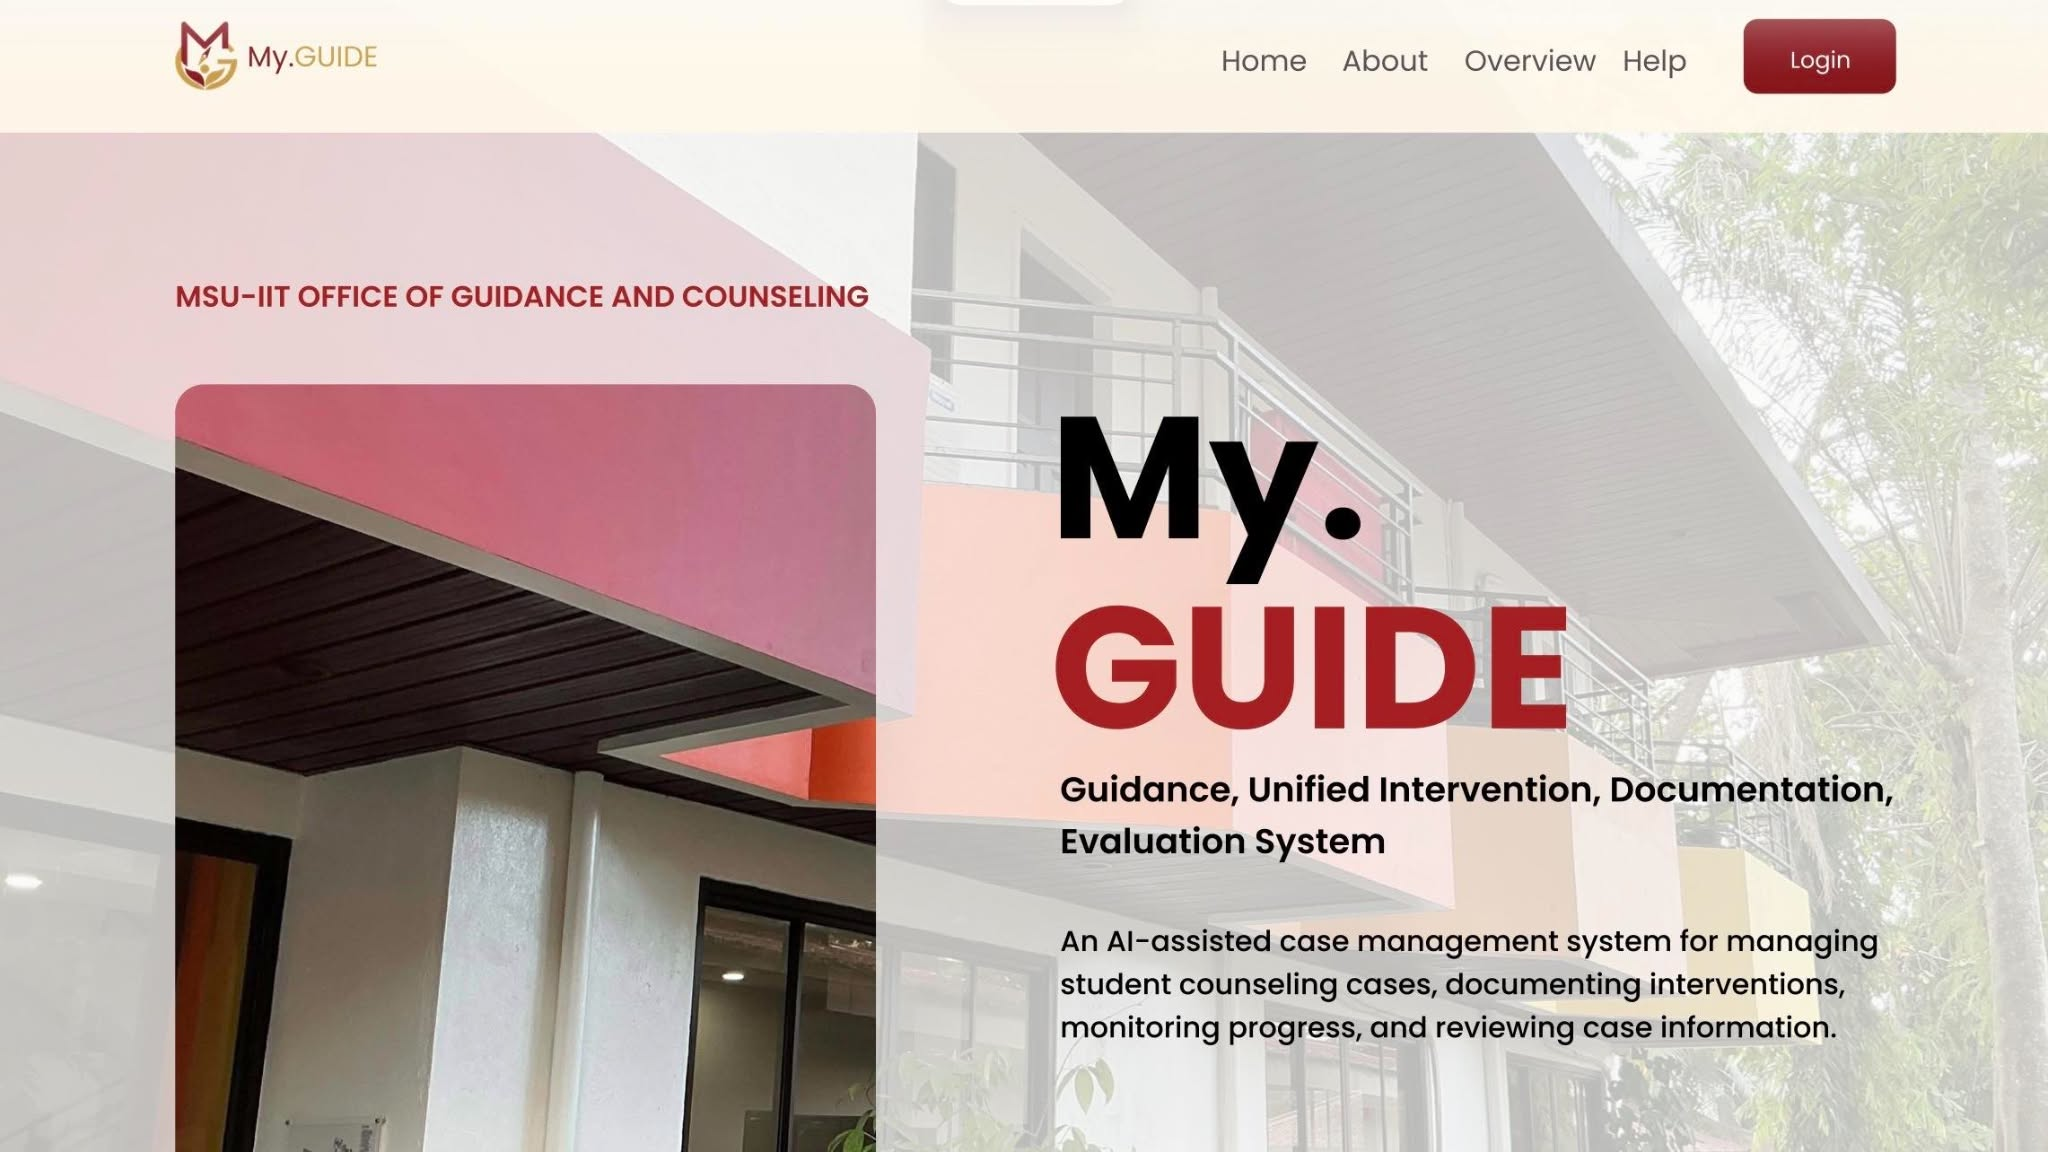
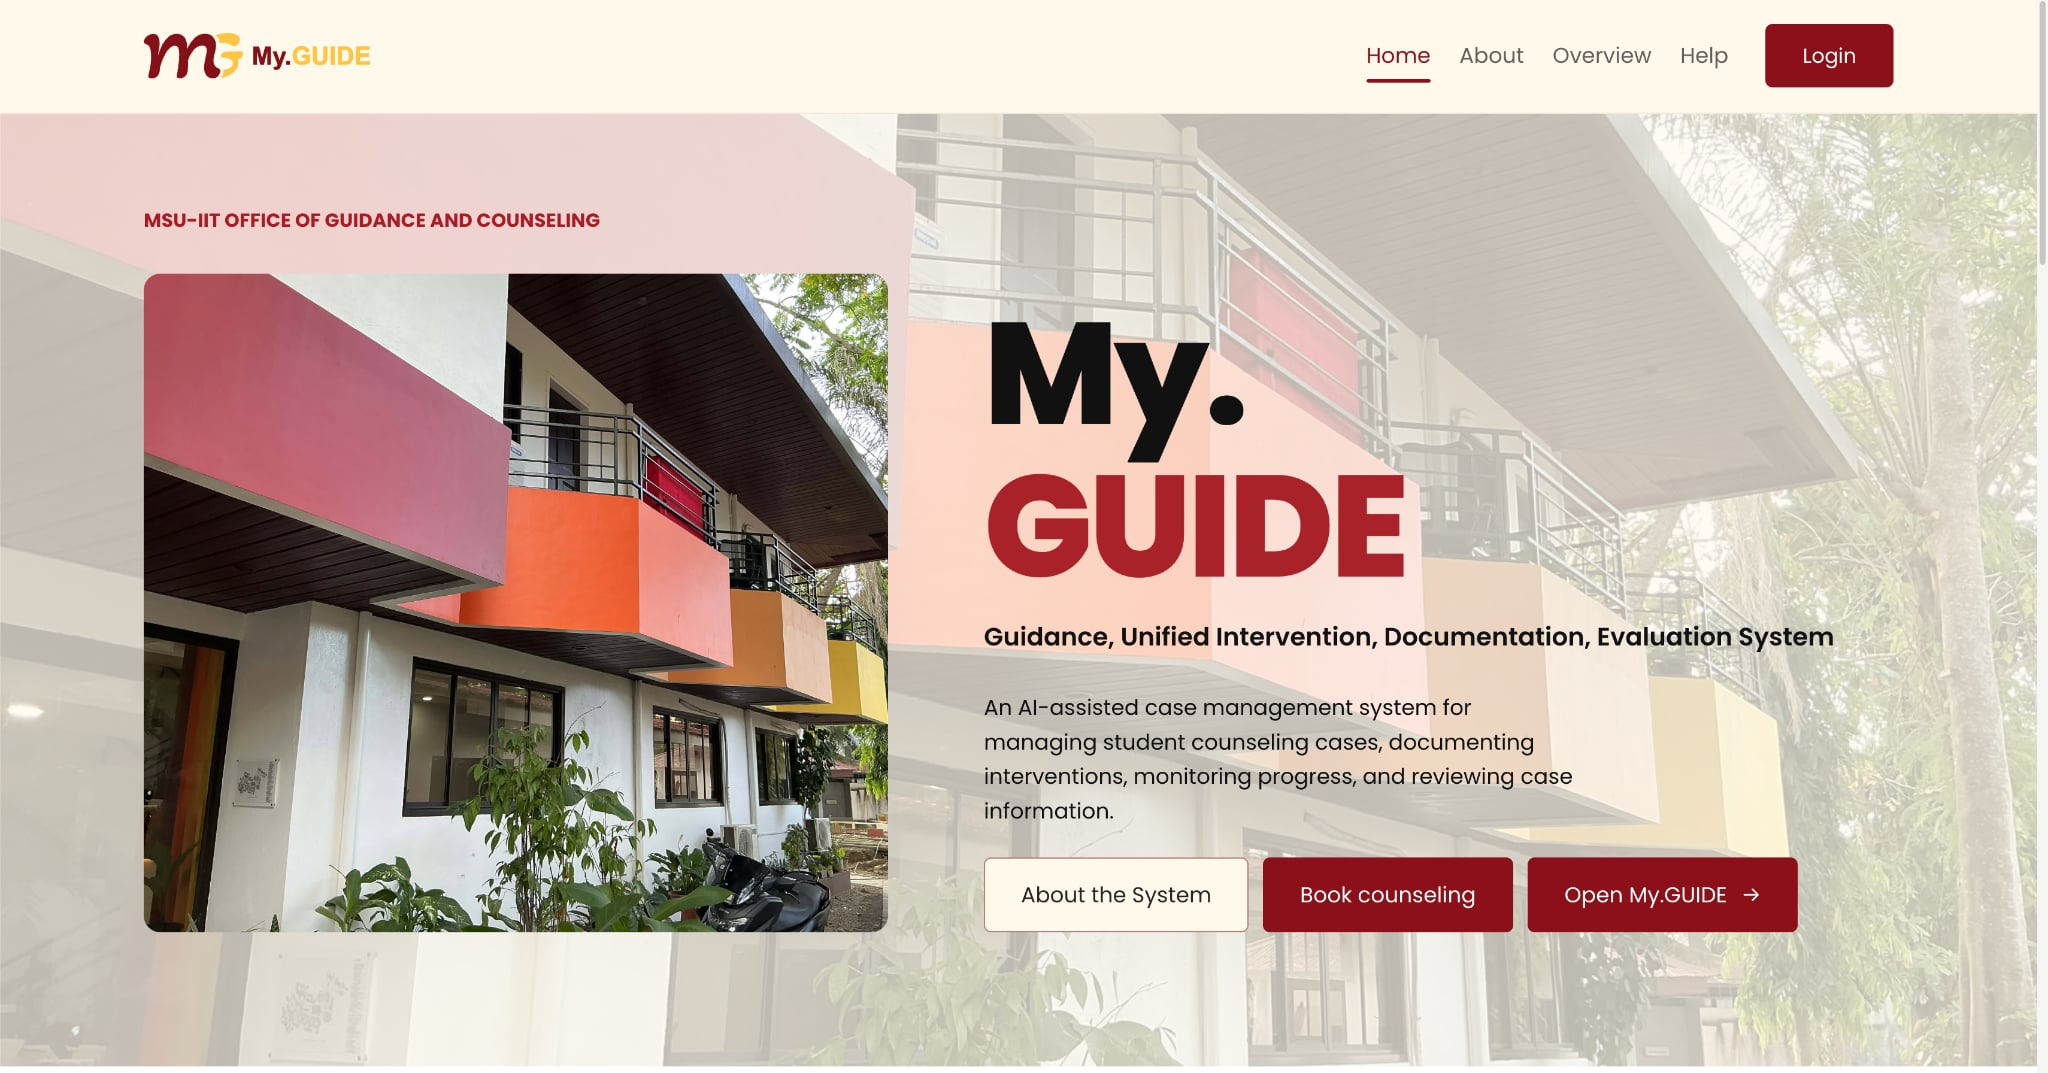
Changed myguide pic

diff --git a/src/content.js b/src/content.js
@@ -53,7 +53,7 @@ export const projects = [
       "A Christmas wish-tracking platform with QR-linked wish pages, donor reservations, and campaign tracking. Includes an officer dashboard for monitoring wishes, donors, fulfillment, and drop-offs.",
     stack: ["React", "Express", "Node.js", "MongoDB"],
     role: "Full-stack Developer",
-    image: "/images/WishLink.png",
+    image: "/images/Wishlink.jpeg",
     github: "",
     live: "",
   },
